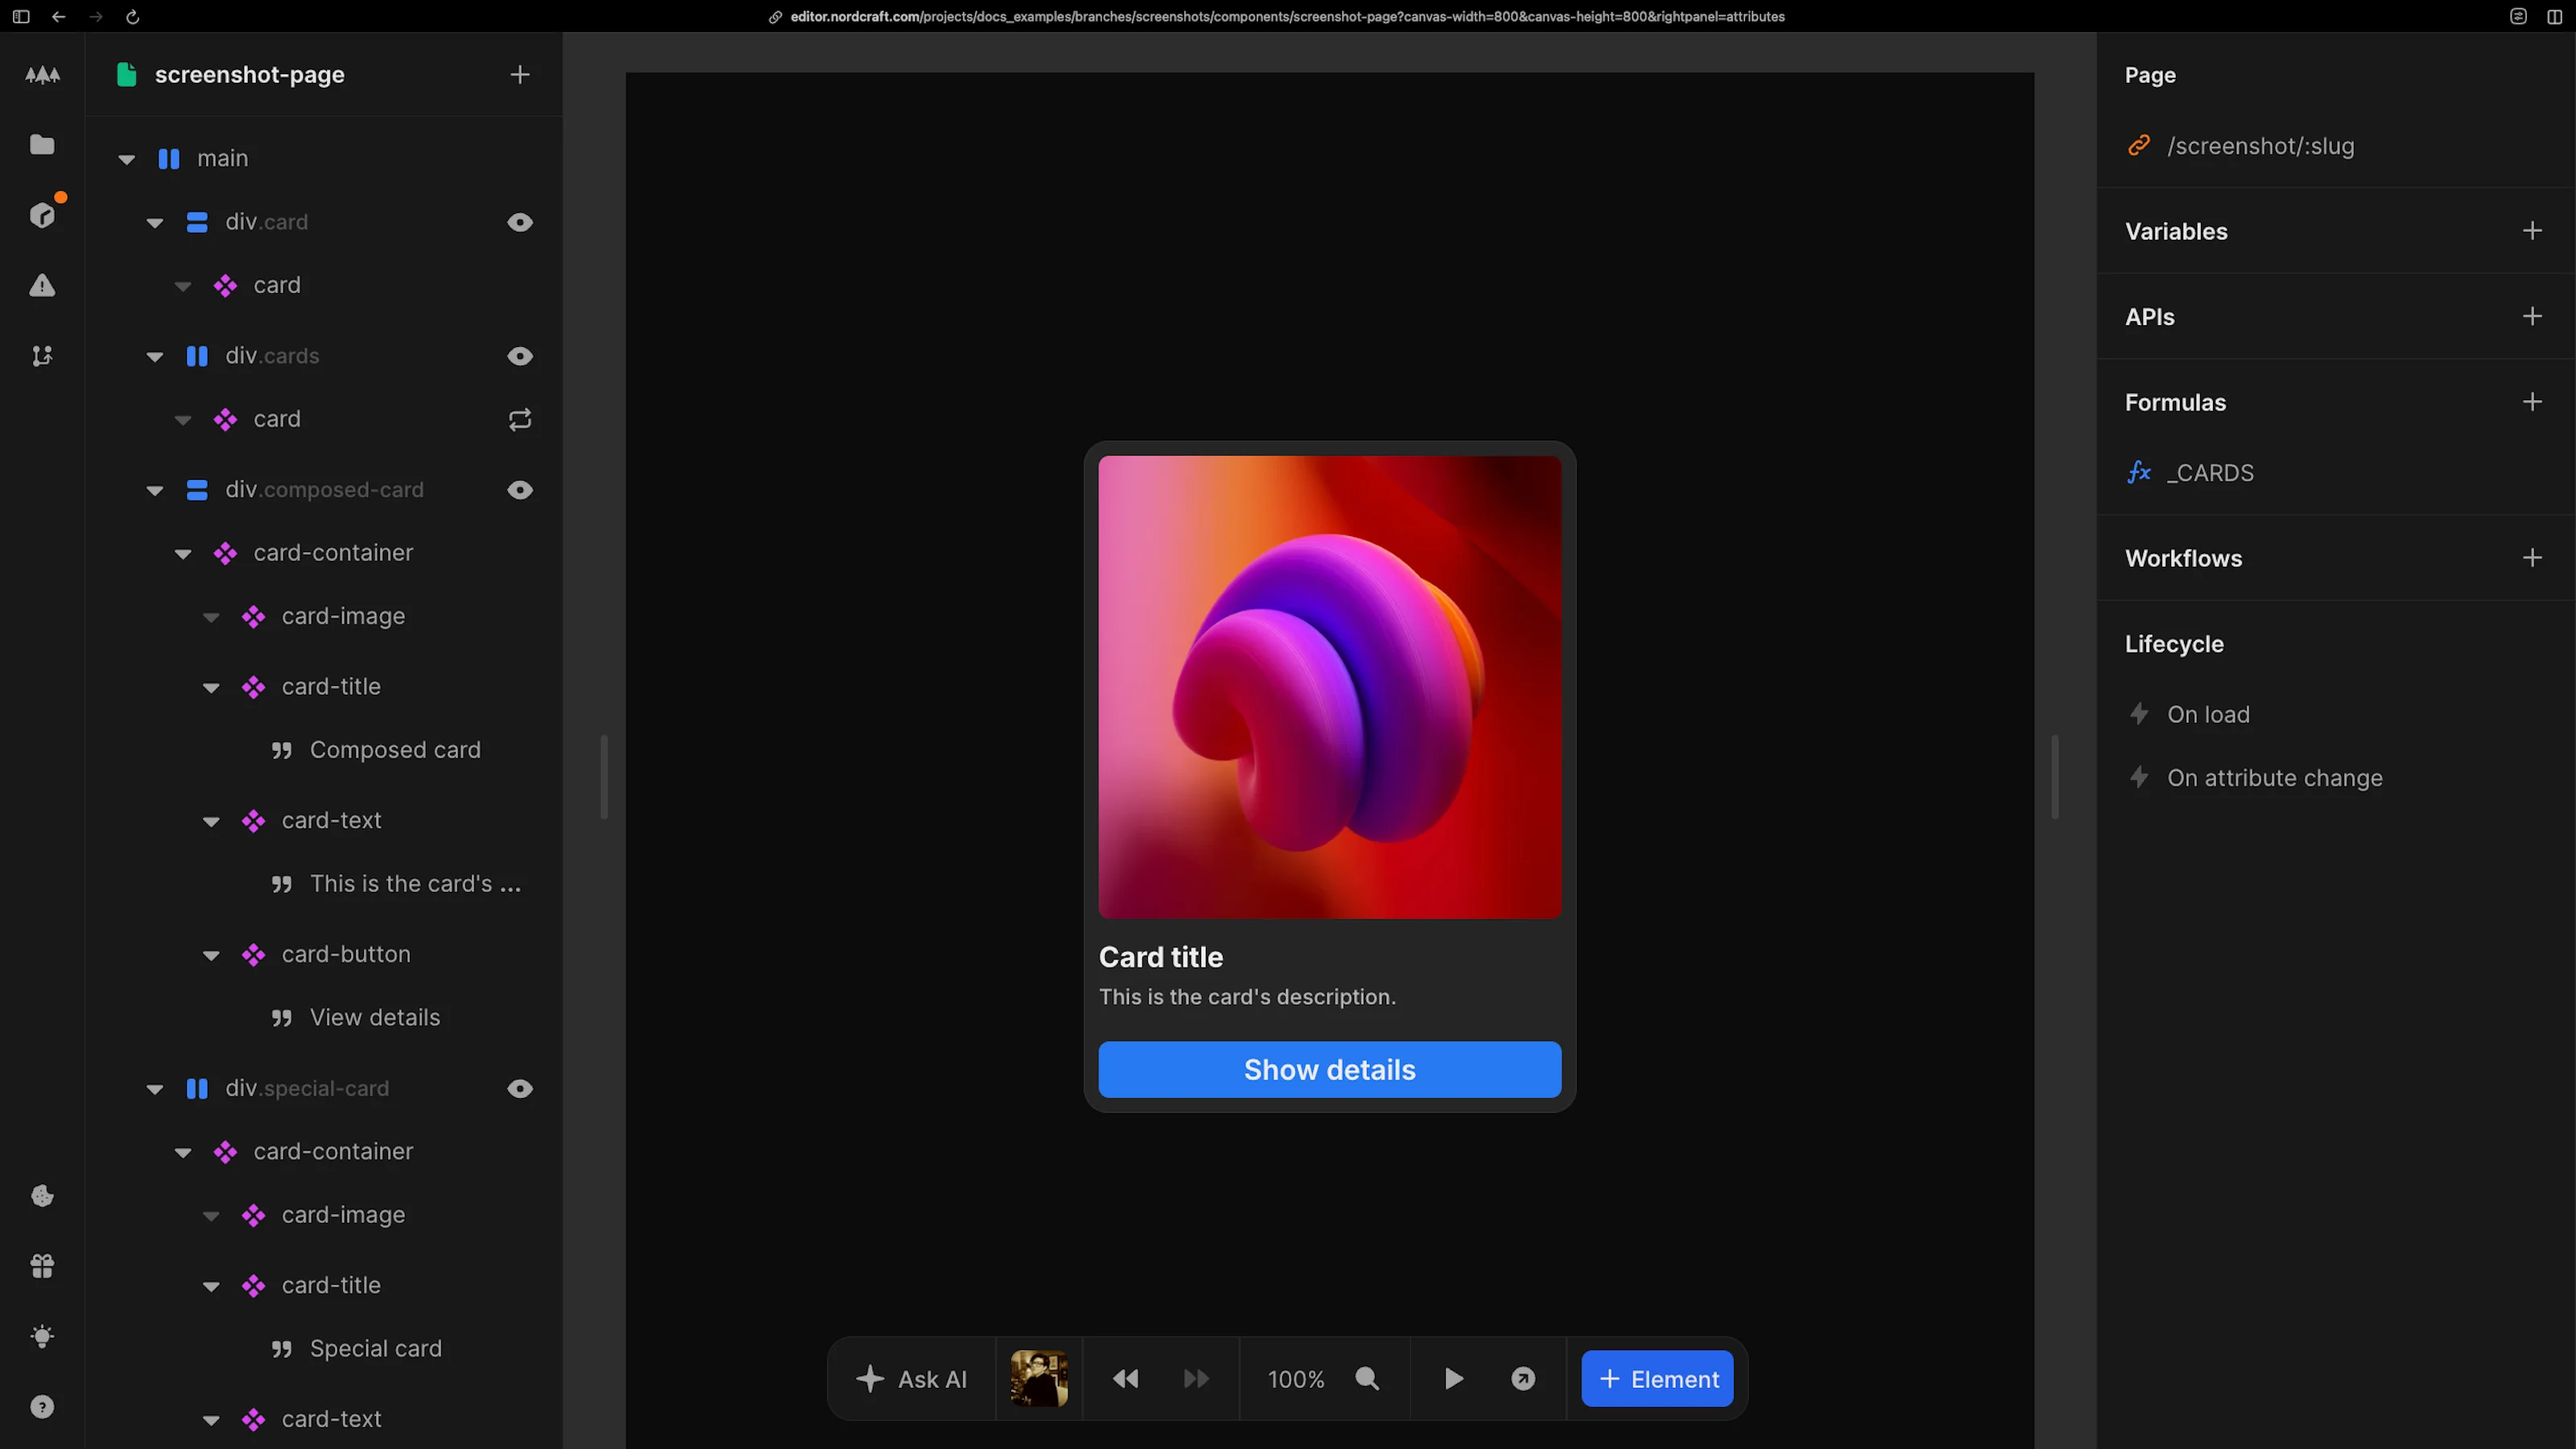
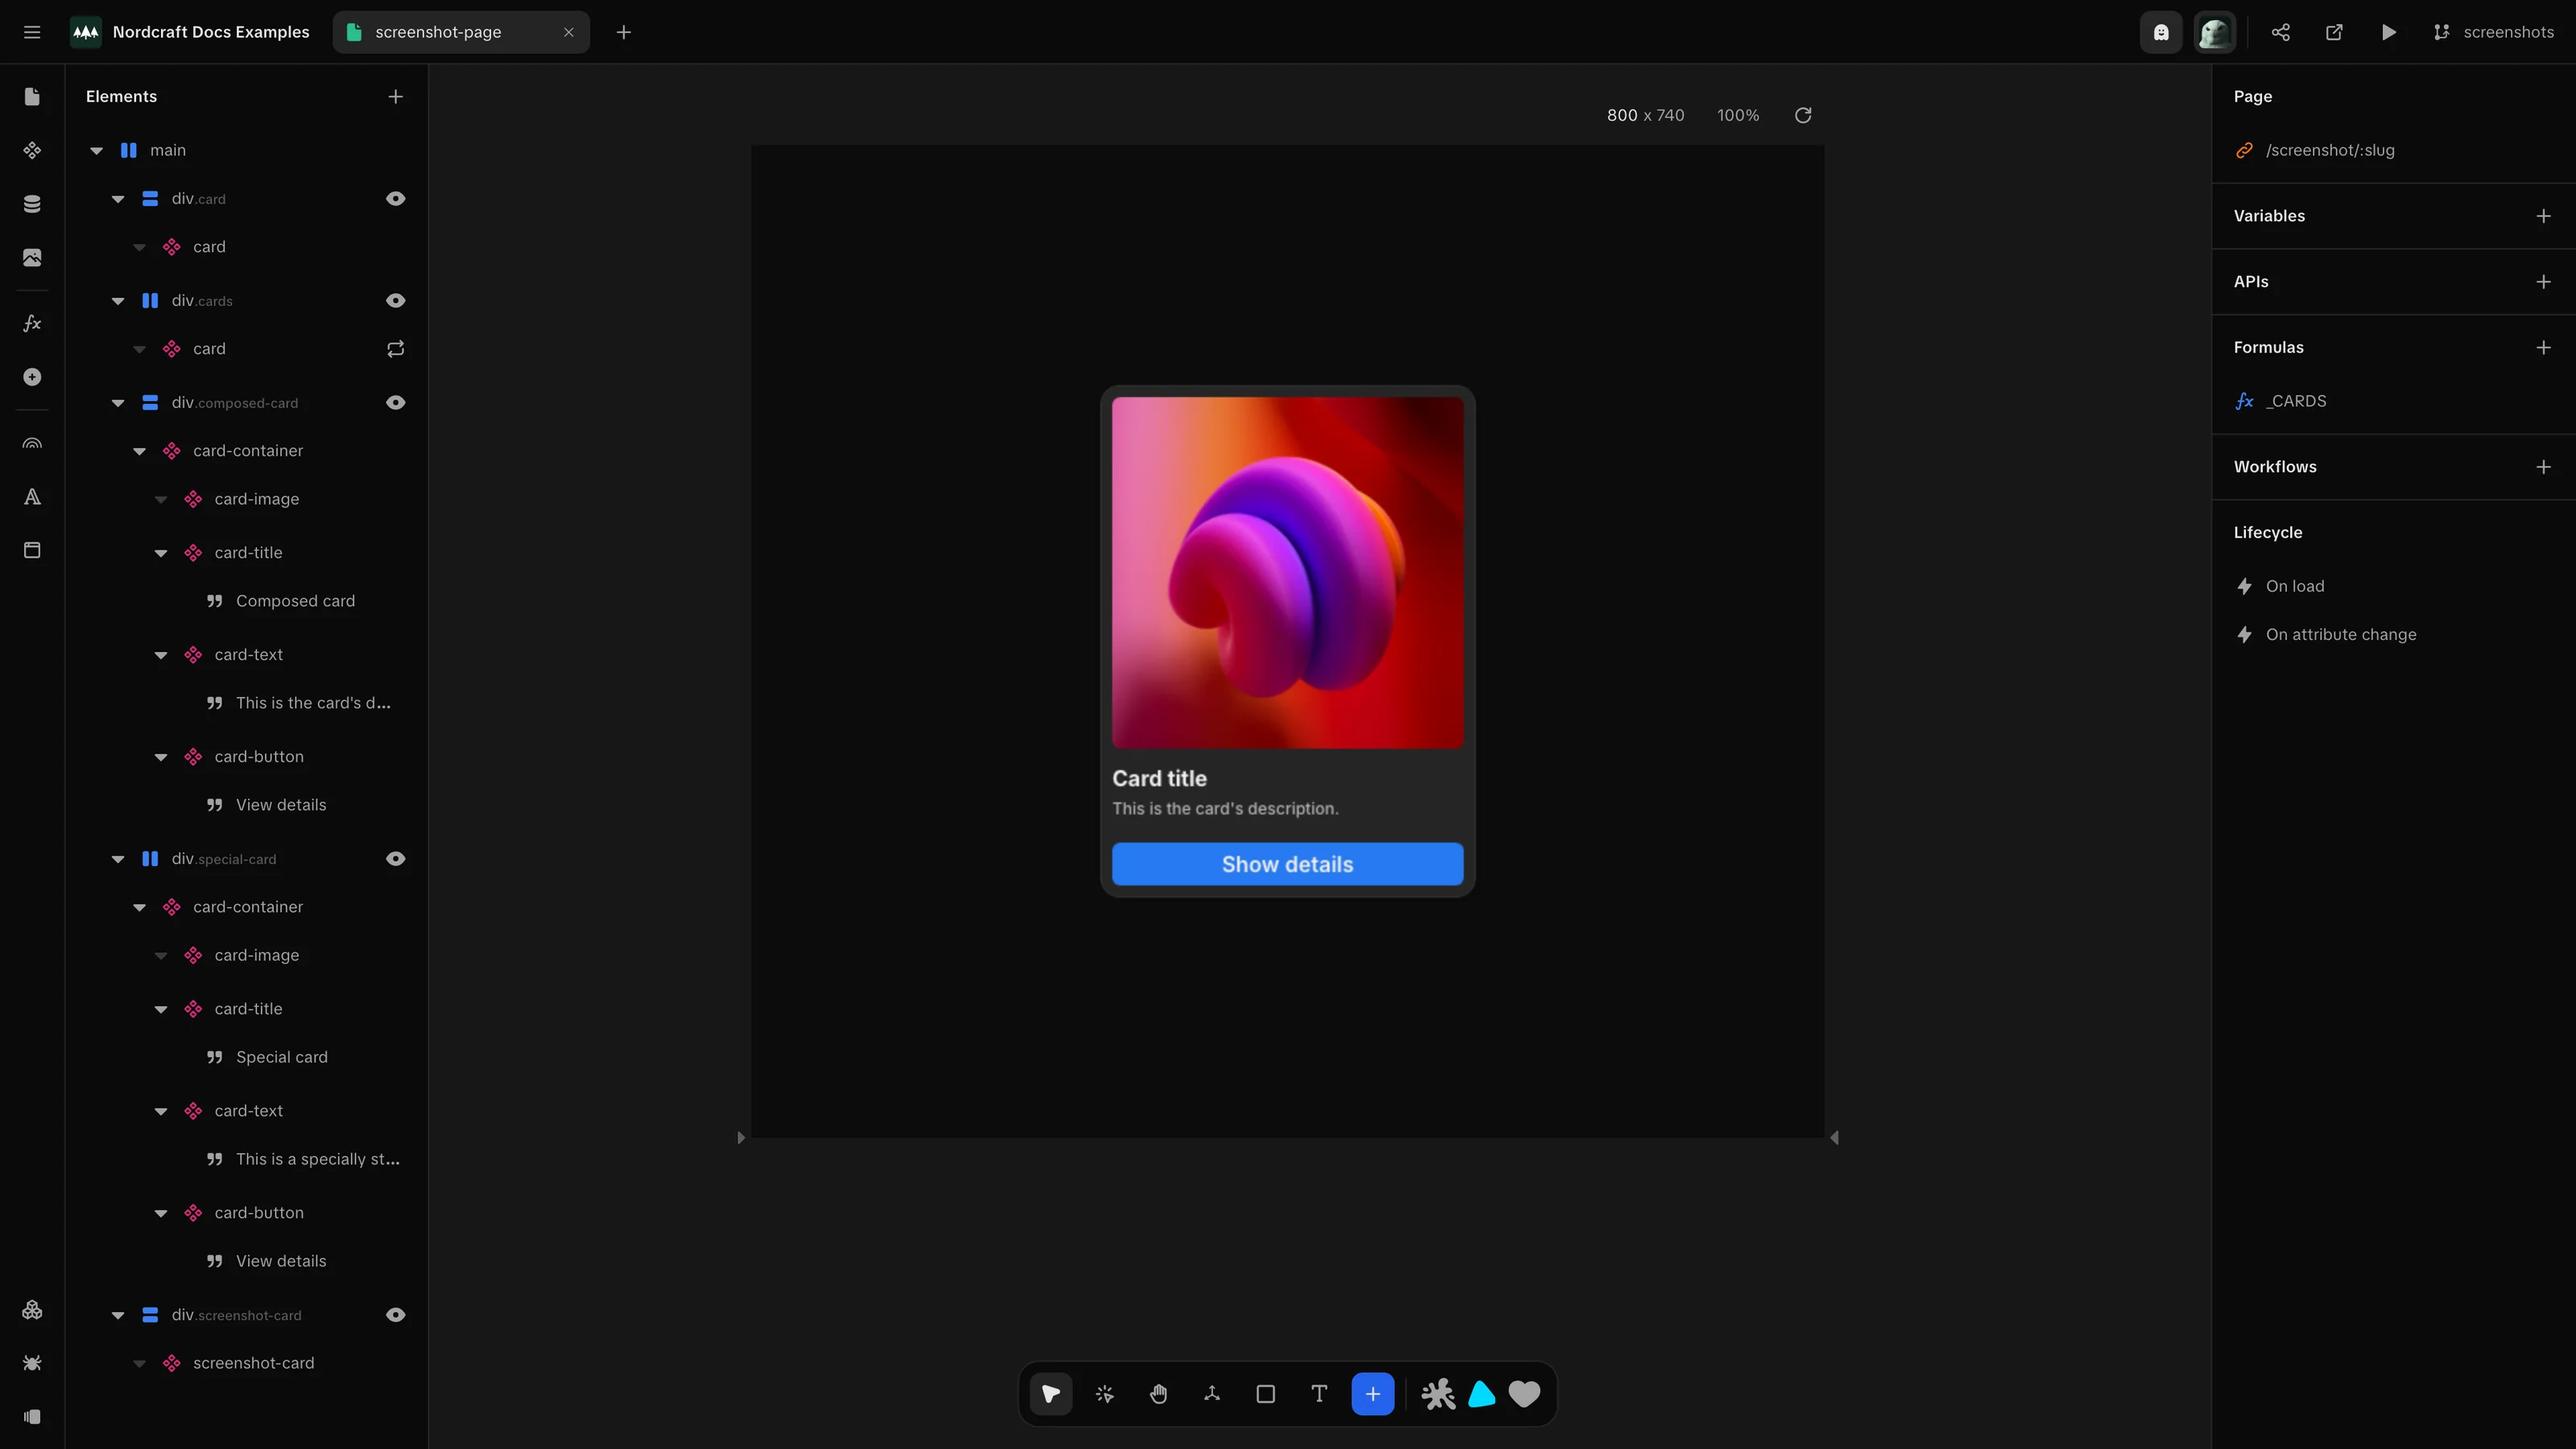
Update page screenshot

diff --git a/docs/building-blocks/pages/page.screenshot.ts b/docs/building-blocks/pages/page.screenshot.ts
@@ -1,0 +1,11 @@
+import { defineScreenshot } from '@/scripts/capture-screenshots'
+import type { Page } from 'playwright'
+
+// Placeholder script for page.webp
+export default defineScreenshot({
+  path: '/projects/docs_examples/branches/screenshots/components/screenshot-page?mode=design&canvas-tool=select&rightpanel=attributes',
+  description: 'Page',
+  setup: async (page: Page) => {
+    await page.waitForTimeout(500)
+  },
+})
